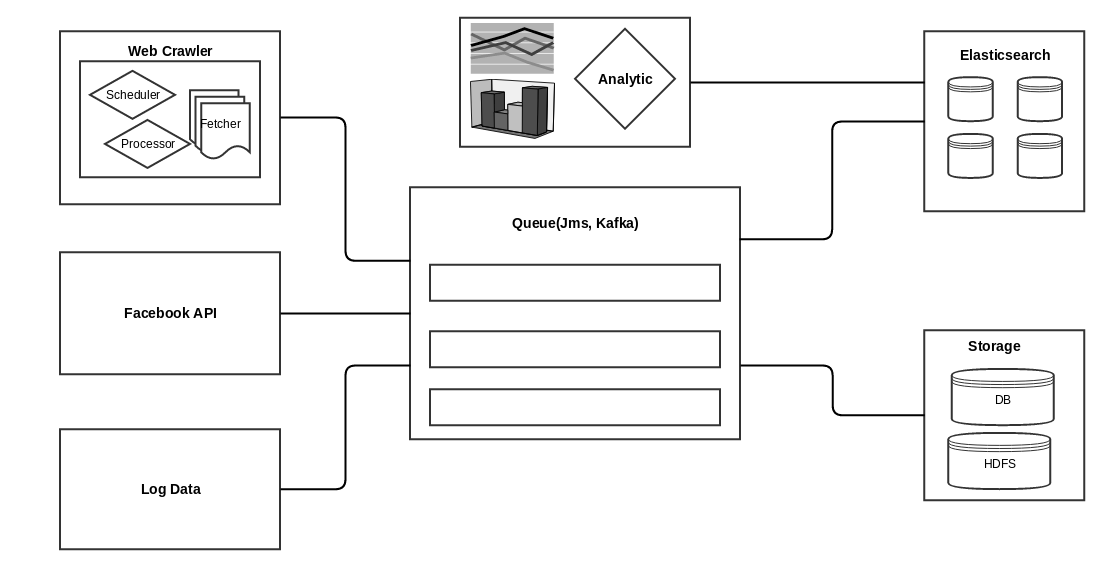
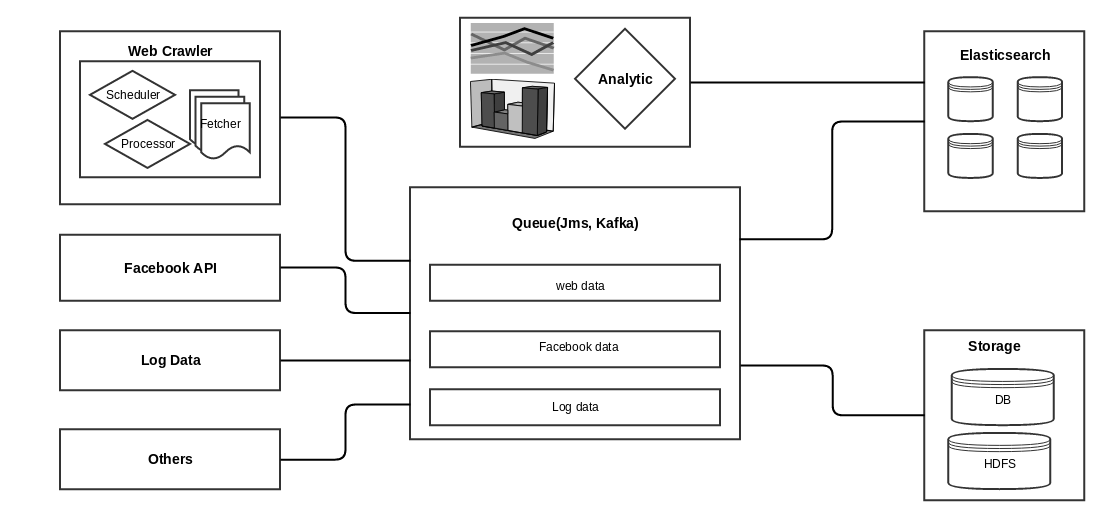
update README.md

diff --git a/README.md b/README.md
@@ -10,9 +10,17 @@ DataTP
 
 ##Overview##
 
-The DataTP - Data Tool Platform - is a data framework that allow the developer/admin to capture the different type of data such webpage, facebook messages, log...
+The DataTP - Data Tool Platform - is an opensource data framework that allow the developer to capture the different type of data such webpage, facebook data, log data... Process the data by the data tool to extract the entities, classify the data... and then forward the data to a queue to further save the data to elasticsearch for analysis or other storage such HDFS for backup.
 
 ![Overview](docs/images/datatp_overview.png "DataTP")
+
+The main goals of the project are:
+
+1. Scalable and reliable
+2. Reuse as much as possible the other popular opensource project such spring framework, elasticsearch, zookeeper, kafka, hadoop...
+3. Implement the missing data lib or services to process the data.
+4. abc  
+
 
 ##Web Crawler##
 
@@ -23,4 +31,5 @@ The DataTP - Data Tool Platform - is a data framework that allow the developer/a
 ##Other Data##
 
 ##Data Tools##
+
 ##DataTP System##
